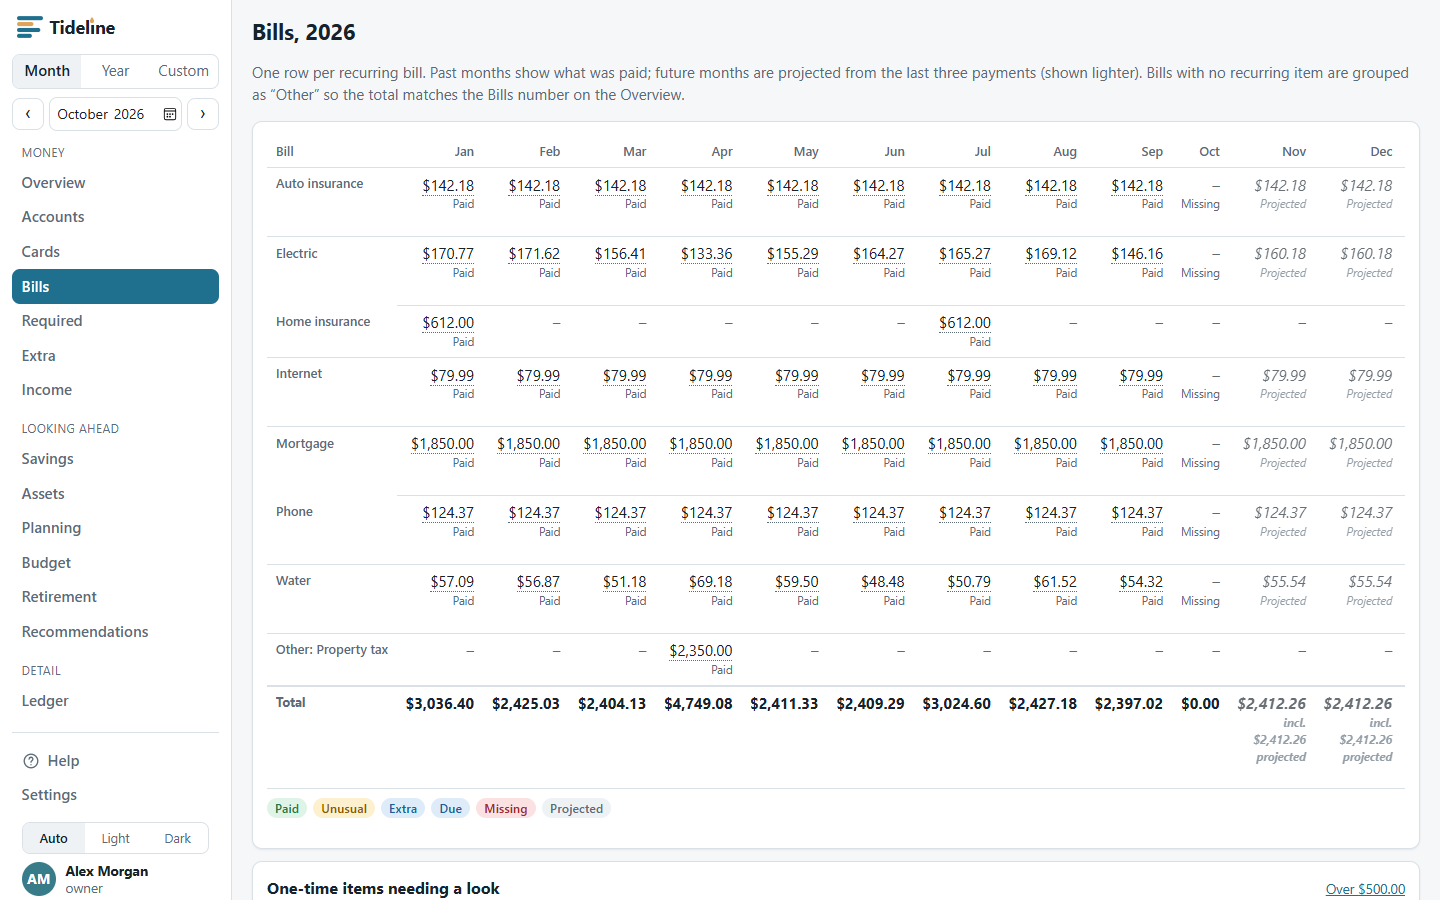
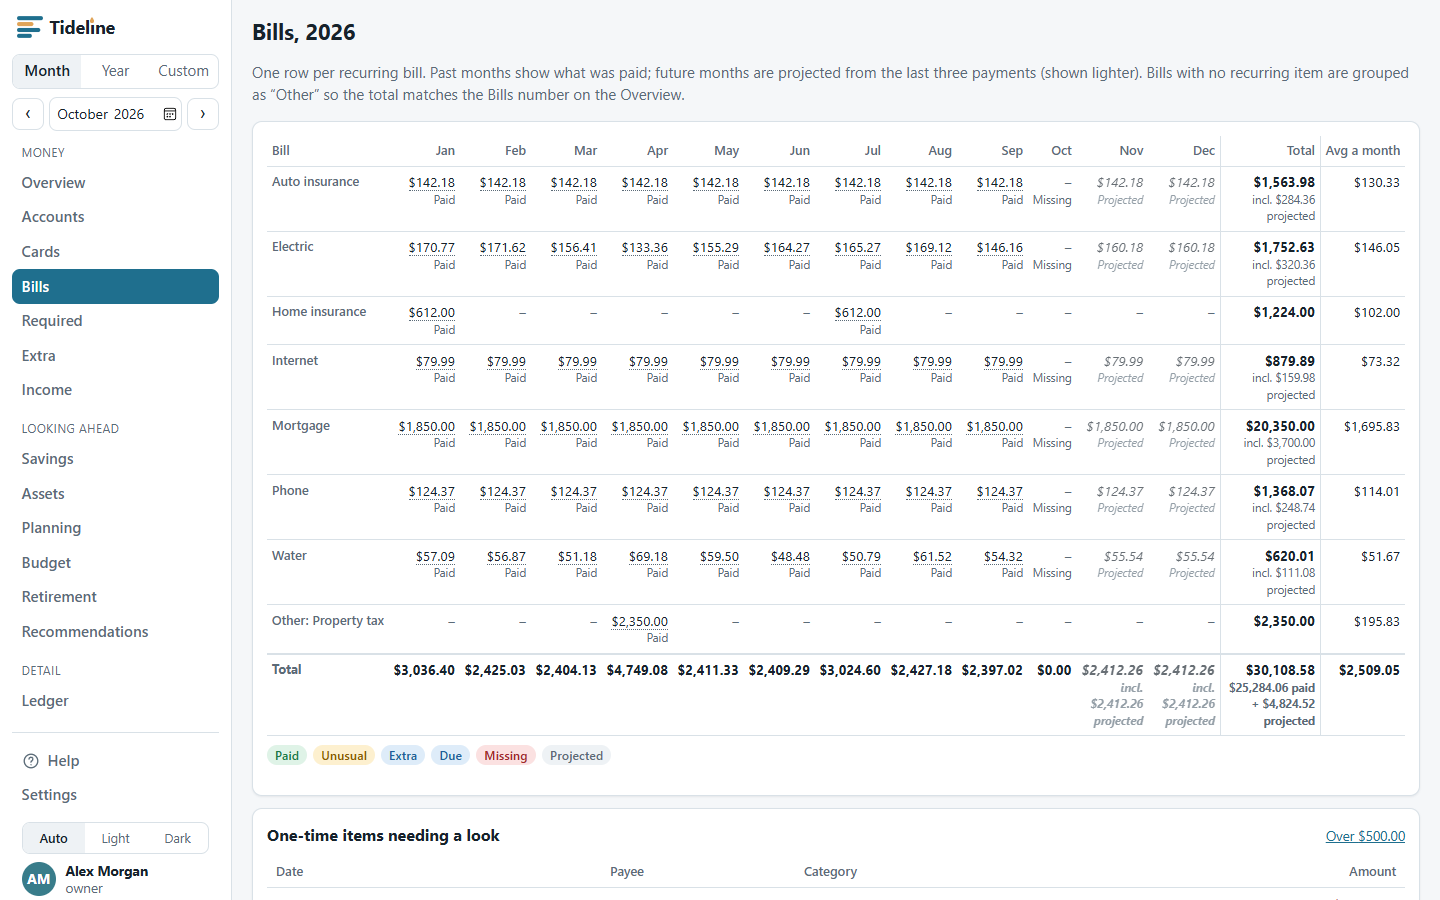
Bills grid: Total and a new Avg a month column stay in view on the right, and the grid is tighter so all twelve months fit

diff --git a/web/src/routes/Bills.tsx b/web/src/routes/Bills.tsx
@@ -38,7 +38,7 @@ export function Bills({ period }: { period: Period }) {
           <p className="muted">No bills yet. Add recurring items with `tideline setup`, and import some exports.</p>
         ) : (
           <div className="table-wrap">
-            <table>
+            <table className="bills-grid">
               <thead>
                 <tr>
                   <th className="sticky-col">Bill</th>
@@ -47,7 +47,8 @@ export function Bills({ period }: { period: Period }) {
                       {shortMonth(m)}
                     </th>
                   ))}
-                  <th className="num">Total</th>
+                  <th className="num sticky-total">Total</th>
+                  <th className="num sticky-average" title="The year's total divided by 12">Avg a month</th>
                 </tr>
               </thead>
               <tbody>
@@ -72,10 +73,11 @@ export function Bills({ period }: { period: Period }) {
                         </td>
                       )
                     })}
-                    <td className="num">
+                    <td className="num sticky-total">
                       <strong>{dollars(r.totalCents)}</strong>
                       {r.totalProjectedCents > 0 && <span className="cell-note">incl. {dollars(r.totalProjectedCents)} projected</span>}
                     </td>
+                    <td className="num sticky-average">{dollars(Math.round(r.totalCents / 12))}</td>
                   </tr>
                 ))}
               </tbody>
@@ -90,12 +92,13 @@ export function Bills({ period }: { period: Period }) {
                       {c.projectedCents > 0 && <span className="cell-note">incl. {dollars(c.projectedCents)} projected</span>}
                     </td>
                   ))}
-                  <td className="num">
+                  <td className="num sticky-total">
                     {dollars(data.grandTotalCents)}
                     <span className="cell-note">
                       {dollars(data.totalPaidCents)} paid{data.totalProjectedCents > 0 ? ` + ${dollars(data.totalProjectedCents)} projected` : ''}
                     </span>
                   </td>
+                  <td className="num sticky-average">{dollars(Math.round(data.grandTotalCents / 12))}</td>
                 </tr>
               </tfoot>
             </table>

diff --git a/web/e2e/smoke.spec.ts b/web/e2e/smoke.spec.ts
@@ -43,6 +43,10 @@ test.describe.serial('smoke', () => {
     await expect(grid.locator('tfoot')).toContainText('$130.99 paid')
     await expect(grid.locator('tbody tr', { hasText: 'City Power' })).toContainText('Paid')
     await expect(grid.locator('tbody tr', { hasText: 'City Power' })).toContainText('Missing')
+
+    // the year's Total and the Average a month stay in view on the right, without scrolling sideways
+    await expect(grid.getByRole('columnheader', { name: 'Total', exact: true })).toBeInViewport()
+    await expect(grid.getByRole('columnheader', { name: 'Avg a month' })).toBeInViewport()
   })
 
   test('splitting $10 of groceries moves it from Required to Extra and the total does not change', async ({ page }) => {

diff --git a/web/src/styles.css b/web/src/styles.css
@@ -549,6 +549,33 @@ tbody tr.clickable:hover {
   background: var(--surface);
 }
 
+/* the Bills grid: Total and Average a month stay in view on the right while the months scroll */
+.bills-grid th,
+.bills-grid td {
+  padding: 0.35rem 0.3rem;
+}
+
+.bills-grid td {
+  font-size: 0.84rem;
+}
+
+.bills-grid .sticky-total,
+.bills-grid .sticky-average {
+  position: sticky;
+  background: var(--surface);
+  border-left: 1px solid var(--border);
+}
+
+.bills-grid .sticky-average {
+  right: 0;
+  min-width: 5rem;
+}
+
+.bills-grid .sticky-total {
+  right: 5rem;
+  min-width: 6.2rem;
+}
+
 .projected {
   opacity: 0.65;
   font-style: italic;
